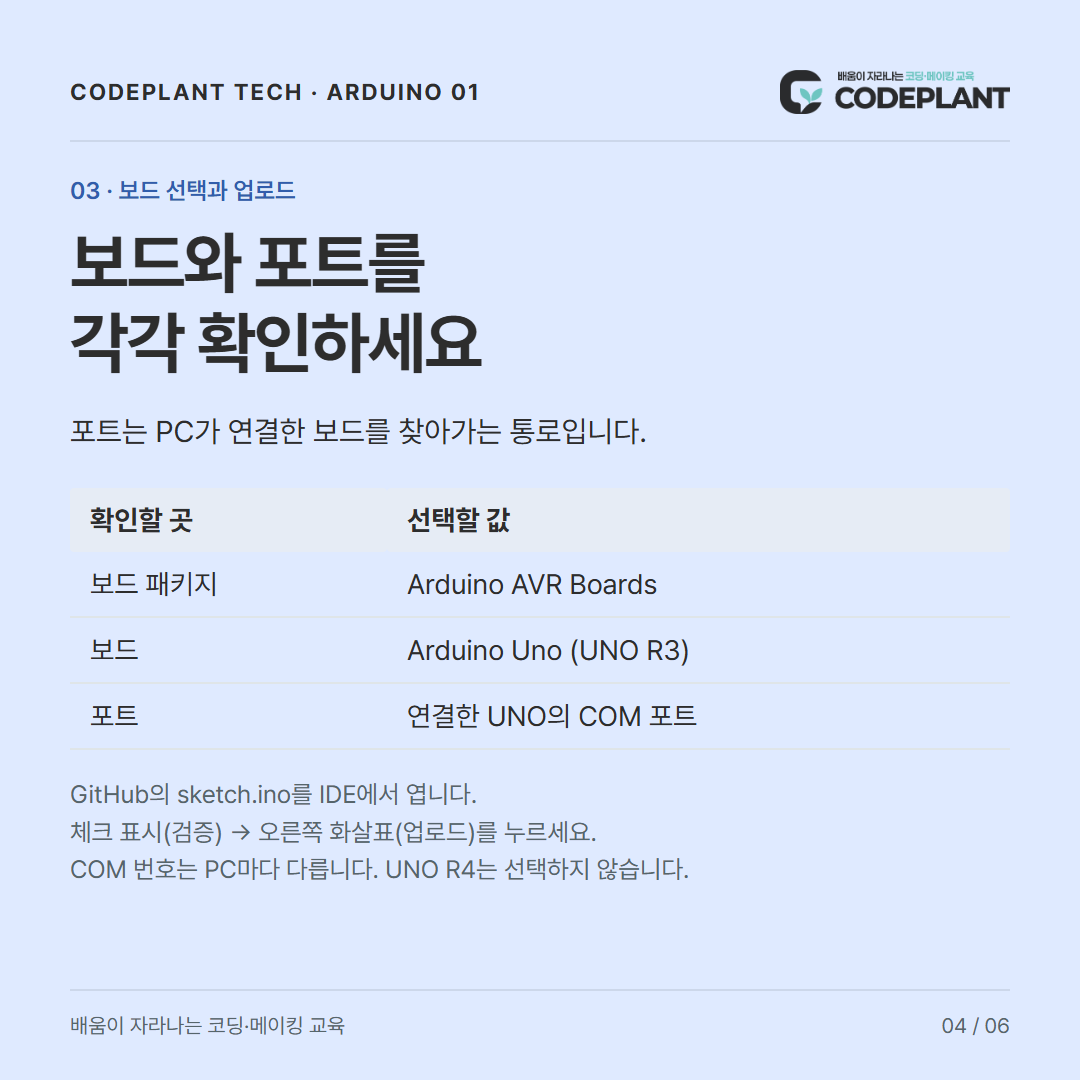
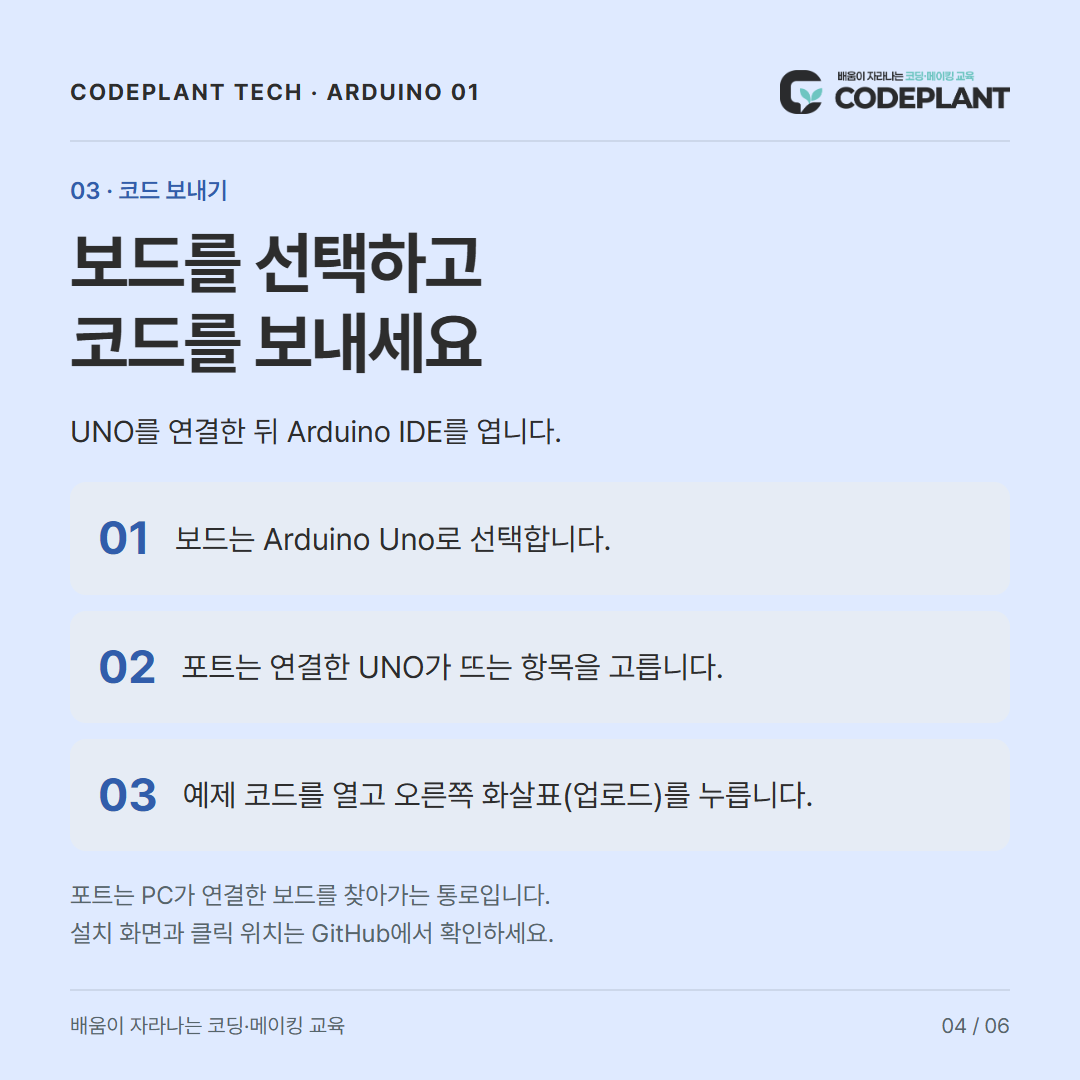
Update arduino-001-basic-setup educational cards and code

diff --git a/README.md b/README.md
@@ -1,49 +1,117 @@
-# Arduino UNO R3 · IDE부터 첫 실행까지
+# Arduino UNO · IDE부터 첫 실행까지
 
-CODEPLANT TECH 01 · 기본 세팅 (파랑 배경). Windows 10 이상, 64비트 PC와 Arduino IDE 2 기준입니다.
+Arduino IDE는 보드에 무엇을 할지 코드로 적고, 그 코드를 보드에 보내는 프로그램입니다.
 
-## 준비와 설치
+카드뉴스는 IDE의 역할과 연결·실행 결과를 쉽게 설명합니다. 이 글에서는 설치와 클릭 순서를 화면별로 따라갑니다. UNO R3, Windows 10 이상 64비트 기준입니다. 아래 캡처는 Arduino 공식 문서의 참고 화면이며 이 PC에서 실습을 실행한 사진은 아닙니다. 화면 자료는 IDE 2 계열이고, 설치한 버전에 따라 모양과 위치가 다를 수 있습니다. 카드에서는 제품명을 Arduino IDE로 표기합니다.
 
-Arduino UNO R3, 데이터 전송이 되는 USB-B 케이블, PC가 필요합니다. PC 쪽 단자는 USB-A 또는 PC에 맞는 단자를 쓰세요. 센서와 점퍼선은 필요하지 않습니다.
+## 1. 프로그램 설치하기
 
-1. [Arduino 공식 다운로드](https://www.arduino.cc/en/software)에서 Arduino IDE 2의 Windows 64비트 설치 파일을 받습니다. 설치 후 실행합니다.
-2. PC와 UNO의 USB-B 단자를 연결합니다. 이번 실습에서는 USB가 전원도 공급하므로 외부 전원은 추가하지 않습니다.
-3. IDE에서 Arduino AVR Boards 패키지가 없으면 Boards Manager에서 설치합니다. 보드는 Arduino Uno를 선택합니다. UNO R4와 다른 보드입니다.
-4. Tools > Port에서 연결한 UNO의 실제 COM 포트를 선택합니다. COM 번호는 PC마다 다릅니다. 보드 선택과 포트 선택은 각각 확인하세요.
+[Arduino 공식 Software 페이지](https://www.arduino.cc/en/software)에서 PC에 맞는 Arduino IDE 설치 파일을 받습니다. Windows에서는 설치 파일을 실행합니다.
 
-| 확인할 것 | 설정 |
-| --- | --- |
-| 보드 패키지 | Arduino AVR Boards |
-| 보드 | Arduino Uno (UNO R3), arduino:avr:uno |
-| 포트 | 연결한 보드의 실제 COM 포트 |
-| 시리얼 모니터 | 9600 baud |
+![Arduino IDE 설치 과정 · Arduino 공식 참고 화면](ide-install-screen.png)
 
-## 첫 업로드
+왼쪽 위부터 순서대로 진행합니다.
 
-이 저장소의 sketch.ino를 내려받아 Arduino IDE에서 엽니다. IDE가 파일명과 같은 폴더 생성을 요청하면 허용합니다. Verify(체크 표시)로 컴파일한 뒤 Upload(오른쪽 화살표)를 누릅니다. 완료 메시지를 확인한 뒤 Serial Monitor(시리얼 모니터)를 열고 9600 baud로 맞춥니다.
+1. License Agreement: 약관을 읽고 동의하는 경우 I Agree를 선택합니다.
+2. Choose Installation Options: 사용할 계정을 선택하고 Next를 누릅니다.
+3. Choose Install Location: 설치 위치를 확인하고 Install을 누릅니다.
+4. 설치가 끝나면 Finish를 눌러 Arduino IDE를 엽니다.
 
-보드의 L LED가 약 1초 켜지고 1초 꺼집니다. 시리얼 모니터에는 UNO READY가 약 2초마다 한 줄씩 나옵니다. 9600은 Serial.begin(9600)과 일치해야 합니다. LED_BUILTIN은 UNO R3의 내장 L LED를 가리킵니다. 외부 LED나 저항을 추가할 필요가 없습니다.
+설치 화면은 공식 문서의 이전 버전 참고 자료입니다. 현재 다운로드의 설치 옵션과 문구가 다르면 해당 설치 프로그램의 안내를 따르세요.
 
-setup()은 시작할 때 한 번 실행하여 LED 출력과 통신을 설정합니다. loop()는 LED 켜기 → 문장 전송 → 1초 대기 → LED 끄기 → 1초 대기를 반복합니다. 연결 그림은 USB 연결 개념도입니다. diagram.json은 내장 LED 예제용 UNO만 배치했으며 USB를 GPIO 배선으로 표시하지 않습니다.
+## 2. USB로 UNO 연결하기
+
+준비물은 UNO R3, 데이터용 USB-B 케이블, PC입니다. PC 쪽 단자는 USB-A 또는 PC에 맞는 단자를 사용합니다. 충전만 되는 케이블은 보드를 찾지 못할 수 있습니다.
+
+![PC와 UNO의 USB 연결 개념도](usb-connection.png)
+
+PC와 UNO의 USB-B 단자를 연결합니다. 이번 예제에서는 USB가 전원도 공급하므로 센서·점퍼선·별도 전원은 필요하지 않습니다.
+
+## 3. 보드와 포트 선택하기
+
+![Tools 메뉴의 Board와 Port 위치 · Arduino 공식 참고 화면](ide-tools-screen.png)
+
+1. 상단 Tools(도구) > Board(보드) > Arduino AVR Boards > Arduino Uno를 선택합니다. UNO R3에 맞는 보드이며 UNO R4는 선택하지 않습니다.
+2. Arduino AVR Boards가 없으면 Boards Manager(보드 매니저)에서 해당 패키지를 설치합니다.
+3. Tools > Port(포트)에서 연결한 UNO의 실제 COM 포트를 선택합니다. 연결 전후에 새로 나타나는 포트를 비교하면 찾기 쉽습니다.
+
+위 화면은 macOS 참고 화면이라 포트 이름이 /dev/cu...로 보입니다. Windows에서는 COM 뒤에 숫자가 붙습니다. 다른 사람의 포트 번호를 그대로 고르지 마세요.
+
+![UNO가 선택된 보드 표시 · Arduino 공식 참고 화면](ide-uno-port-screen.png)
+
+보드 이름은 코드가 어느 보드용인지 정하고, 포트는 PC가 어느 보드에 코드를 보낼지 정합니다. 두 항목을 각각 확인합니다. 보드 이름을 선택했다고 USB 연결까지 완료된 것은 아닙니다.
+
+## 4. 예제 파일 열기
+
+이 저장소의 [sketch.ino](sketch.ino)를 내려받아 Arduino IDE에서 엽니다. IDE가 sketch라는 폴더 생성을 요청하면 허용합니다. 코드를 새 창에 복사해 저장해도 됩니다.
+
+setup()은 시작할 때 LED 출력과 시리얼 통신을 설정합니다. loop()는 LED 켜기 → 문장 보내기 → 1초 기다리기 → LED 끄기 → 1초 기다리기를 반복합니다. 외부 라이브러리는 필요하지 않습니다.
+
+## 5. 검증한 뒤 업로드하기
+
+![체크 표시와 오른쪽 화살표 위치 · Arduino 공식 참고 화면](ide-buttons-screen.png)
+
+- 왼쪽 체크 표시 Verify(검증): 코드의 오류를 확인하고 컴파일합니다.
+- 오른쪽 화살표 Upload(업로드): 코드를 컴파일하고 선택한 보드로 보냅니다.
+
+먼저 체크 표시를 누르고, 오류가 없으면 오른쪽 화살표를 누릅니다. 완료 메시지를 확인합니다. 오류가 나오면 아래 로그에서 이유를 확인하고 보드·포트·케이블부터 점검합니다. 업로드 중에는 USB를 빼지 마세요.
+
+## 6. 불빛과 문장으로 실행 확인하기
+
+![시리얼 모니터 버튼과 9600 설정 위치 · Arduino 공식 참고 화면](ide-serial-screen.png)
+
+1. 보드의 L LED를 봅니다. 약 1초 켜지고 1초 꺼지면 예제가 실행 중입니다.
+2. Serial Monitor(시리얼 모니터)를 엽니다. 보드가 보낸 글을 보는 창입니다.
+3. 속도를 9600 baud로 맞춥니다. 코드의 Serial.begin(9600)과 같아야 합니다.
+4. 이번 코드에서는 UNO READY가 약 2초마다 한 줄씩 나옵니다.
+
+위 참고 화면의 Hello World!는 Arduino 공식 예제의 출력입니다. 이 저장소의 예상 출력은 아래와 같습니다. 실제 실행 캡처를 대신한 그림이 아닙니다.
+
+~~~text
+UNO READY
+UNO READY
+UNO READY
+~~~
 
 ## 막혔을 때
 
-- 포트가 안 보이면 데이터 케이블인지 확인하고 다른 USB 포트에 연결합니다. 연결 전후 목록에서 새로 나타난 포트를 찾습니다.
-- Unknown으로 나오면 보드와 포트를 직접 선택합니다. 호환 보드의 USB 드라이버는 해당 보드 제조사 안내를 확인합니다.
-- 업로드 오류는 보드·포트 설정과 케이블부터 확인하고 다른 프로그램의 시리얼 연결을 닫습니다.
-- 문자가 깨지면 시리얼 모니터 속도를 9600으로 맞춥니다. Serial Monitor와 업로드 로그는 다른 화면입니다.
+| 증상 | 먼저 확인할 것 |
+| --- | --- |
+| 포트가 안 보임 | 데이터용 USB 케이블인지 확인하고 다른 USB 포트에 연결 |
+| Unknown으로 표시됨 | Arduino Uno와 연결한 포트를 직접 선택 |
+| 보드 목록에 Uno가 없음 | Arduino AVR Boards 패키지 설치 |
+| 업로드 오류 | 보드·포트 설정 확인, 다른 프로그램의 시리얼 연결 닫기 |
+| 시리얼 글자가 깨짐 | 모니터 속도를 9600 baud로 맞추기 |
+
+호환 보드의 USB 드라이버는 해당 보드 제조사 안내를 확인합니다. 메뉴 위치가 다르면 [공식 보드·포트 선택 안내](https://support.arduino.cc/hc/en-us/articles/4406856349970-Select-board-and-port-in-Arduino-IDE)를 참고하세요.
 
 ## 검증 범위
 
-공식 문서와 보드·포트·실행 순서, 카드에 표시한 코드와 전체 코드의 대응을 검수했습니다. 실제 IDE 설치, UNO 업로드, 펌웨어 컴파일과 하드웨어 실행은 수행하지 않았습니다. 예상 LED·시리얼 결과를 실제 수업 보드에서 확인하세요.
+공식 자료와 보드·포트·버튼 순서, 코드에 따른 LED·시리얼 결과를 검수했습니다. 실제 UNO 업로드, 펌웨어 컴파일과 하드웨어 실행은 수행하지 않았습니다. 화면들은 공식 참고 자료입니다. diagram.json은 내장 LED 예제용 UNO만 배치했으며 USB를 GPIO 배선으로 표시하지 않습니다.
 
-## 사진과 출처
+## 화면 출처와 사용 조건
 
-- UNO R3 사진: [SparkFun / Wikimedia Commons](https://commons.wikimedia.org/wiki/File:Arduino_Uno_-_R3.jpg), [CC BY 2.0](https://creativecommons.org/licenses/by/2.0/). 원본 비율로 표시했습니다.
-- IDE 2 화면: Arduino Documentation, Karl Söderby, [Using the Serial Monitor tool](https://docs.arduino.cc/software/ide-v2/tutorials/ide-v2-serial-monitor/), [원본 이미지](https://raw.githubusercontent.com/arduino/docs-content/main/content/software/ide-v2/tutorials/ide-v2-serial-monitor/assets/serial-monitor-new-editor.png). 공식 문서의 참고 화면이며 이 예제를 PC에서 실행한 캡처가 아닙니다. 크기만 조정했습니다. [문서 라이선스](https://github.com/arduino/docs-content/blob/main/LICENSE.md): [CC BY-SA 4.0](https://creativecommons.org/licenses/by-sa/4.0/). 이 이미지와 이를 포함한 카드 01은 CC BY-SA 4.0으로 제공합니다. 상표·공식 로고의 권리는 각 소유자에게 있습니다.
-- [Arduino IDE 2 설치](https://docs.arduino.cc/software/ide-v2/tutorials/getting-started/ide-v2-downloading-and-installing/)
-- [보드와 포트 선택](https://support.arduino.cc/hc/en-us/articles/4406856349970-Select-board-and-port-in-Arduino-IDE)
-- [검증과 업로드](https://docs.arduino.cc/software/ide-v2/tutorials/getting-started/ide-v2-uploading-a-sketch/)
-- 코드플랜트 시리즈: https://www.youtube.com/@codeplant2024
+공식 화면을 수정하지 않고 표시했습니다. 설명 글은 CODEPLANT가 작성했습니다.
 
-자료 확인: 2026-10-05. 다음 편은 신호처리입니다.
+| 파일 | 출처 |
+| --- | --- |
+| ide-install-screen.png | Arduino Documentation / Karl Söderby · IDE 설치 문서의 downloading-and-installing-img02.png |
+| ide-tools-screen.png | Arduino Help Center · 보드와 포트 선택의 Tools 메뉴 화면 |
+| ide-uno-port-screen.png | Arduino Help Center · UNO가 선택된 보드 표시 |
+| ide-buttons-screen.png | Arduino Documentation / Karl Söderby, Jacob Hylén · 업로드 문서의 uploading-a-sketch-img01.png |
+| ide-serial-screen.png 및 ide2-screen.png | Arduino Documentation / Karl Söderby · 시리얼 모니터 문서 |
+| uno-r3-photo.jpg | SparkFun / Wikimedia Commons · CC BY 2.0 |
+
+- 설치 문서: https://docs.arduino.cc/software/ide-v2/tutorials/getting-started/ide-v2-downloading-and-installing/
+- 업로드 문서: https://docs.arduino.cc/software/ide-v2/tutorials/getting-started/ide-v2-uploading-a-sketch/
+- 시리얼 문서: https://docs.arduino.cc/software/ide-v2/tutorials/ide-v2-serial-monitor/
+- Tools 화면 원본: https://support.arduino.cc/hc/article_attachments/6366428819228
+- UNO 선택 화면 원본: https://support.arduino.cc/hc/article_attachments/6366428795164
+- Documentation 라이선스: https://github.com/arduino/docs-content/blob/main/LICENSE.md
+- Help Center 라이선스: https://github.com/arduino/help-center-content/blob/main/LICENSE.md
+- UNO 사진 원본: https://commons.wikimedia.org/wiki/File:Arduino_Uno_-_R3.jpg
+- CODEPLANT 유튜브: https://www.youtube.com/@codeplant2024
+
+이 안내문과 Documentation 참고 화면 및 이를 포함한 표지 카드는 [CC BY-SA 4.0](https://creativecommons.org/licenses/by-sa/4.0/)으로 제공합니다. Help Center 화면은 원본 저장소의 라이선스를 따르며, UNO 사진은 [CC BY 2.0](https://creativecommons.org/licenses/by/2.0/)입니다. 상표와 공식 로고의 권리는 각 소유자에게 있습니다.
+
+자료 확인: 2026-10-05. 카테고리: 기본 세팅 · 파랑. 다음 편: 신호처리.

diff --git a/caption.md b/caption.md
@@ -1,12 +1,13 @@
-아두이노를 처음 연결한다면, 센서부터 꽂기 전에 UNO가 잘 실행되는지 확인해 보세요.
+아두이노를 처음 쓴다면 Arduino IDE부터 알아보세요.
+IDE는 보드에 무엇을 할지 적고, 그 코드를 보드에 보내는 프로그램입니다.
 
-Arduino IDE 2 설치 → USB 연결 → Arduino Uno와 포트 선택 → 첫 업로드.
-보드의 L LED가 깜빡이고 시리얼 모니터에 UNO READY가 나오면 첫 준비를 마친 겁니다.
+UNO 연결 → 보드·포트 선택 → 예제 코드 보내기 → 불빛과 문장 확인.
+설치부터 업로드까지 화면별 안내와 전체 코드는 GitHub에 정리했습니다.
 
-Windows 10 이상 64비트 · UNO R3 · 시리얼 9600 baud 기준입니다.
-IDE 설치 파일: https://www.arduino.cc/en/software
-전체 코드: https://github.com/CodeplantEDU/codeplant-tech-arduino-001-basic-setup
+설치 파일: https://www.arduino.cc/en/software
+화면 안내와 전체 코드: https://github.com/CodeplantEDU/codeplant-tech-arduino-001-basic-setup
 
-보드 사진: SparkFun, CC BY 2.0. IDE 화면: Arduino Documentation / Karl Söderby, CC BY-SA 4.0 (공식 참고 화면). 표지 카드: CC BY-SA 4.0. 출처와 라이선스 링크는 저장소 README에 있습니다.
+UNO R3 기준 · 시리얼 모니터 9600.
+보드 사진: SparkFun, CC BY 2.0. IDE 참고 화면: Arduino Documentation / Karl Söderby, CC BY-SA 4.0. 표지 카드: CC BY-SA 4.0. 자세한 출처와 사용 조건은 저장소 README에 있습니다.
 
-#코드플랜트 #CODEPLANT #아두이노 #ArduinoUNO #ArduinoIDE #코딩교육 #메이커교육
+#코드플랜트 #CODEPLANT #아두이노 #ArduinoUNO #ArduinoIDE #코딩교육 #기본세팅
